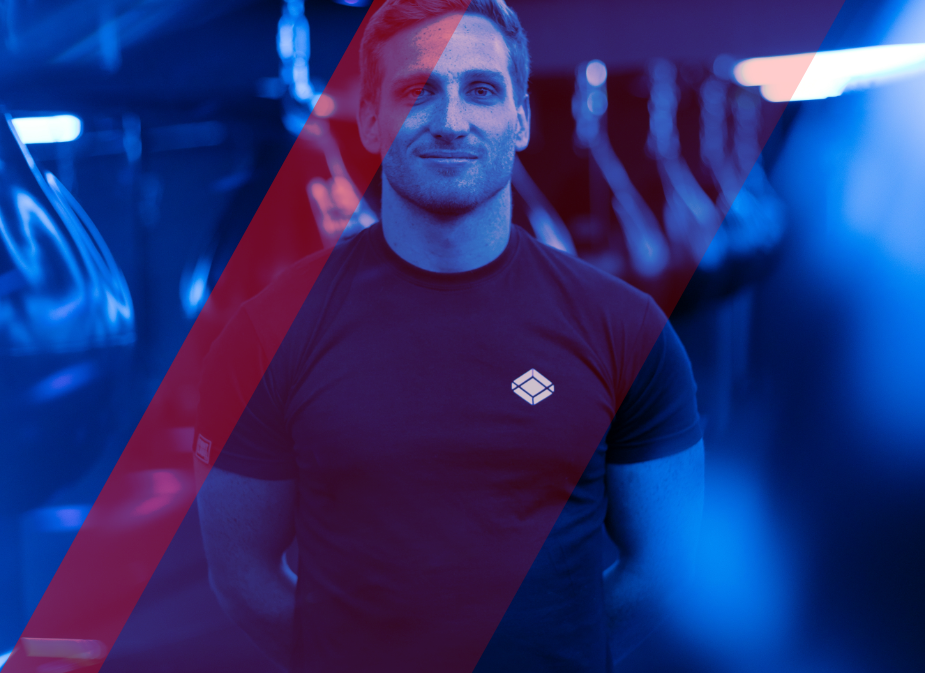
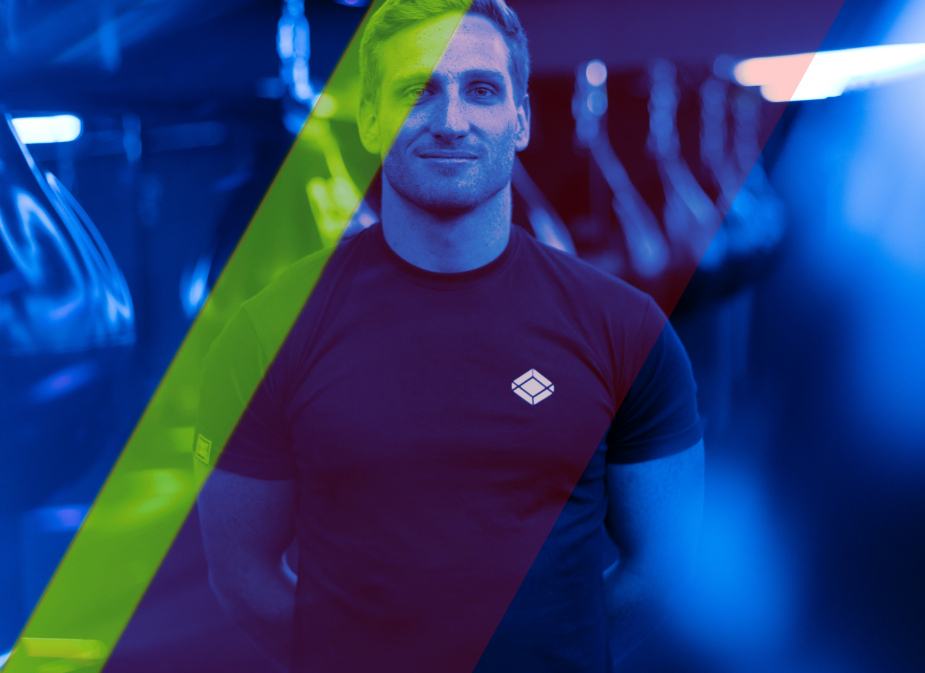
Refactor hero image in slider area

Changed region(s): [[0.0, 0.0, 0.5146, 1.0]]

diff --git a/public/assets/front/css/style.css b/public/assets/front/css/style.css
@@ -2444,7 +2444,7 @@ hr {
   height: 100px;
   position: relative;
   border-style: solid;
-  border-width: 1px;
+  border-width: 3px;
   border-top-color: #ffcc29;
   border-bottom-color: transparent;
   border-left-color: transparent;
@@ -2479,7 +2479,6 @@ hr {
   -webkit-transform: translateY(-50%);
   -ms-transform: translateY(-50%);
   transform: translateY(-50%);
-  padding-top: 6px;
   -webkit-transition: .6s;
   -o-transition: .6s;
   transition: .6s;
@@ -2487,7 +2486,7 @@ hr {
 
 /* line 636, C:/Users/HP/Desktop/July-HTML/292 Health coach/assets/scss/_common.scss */
 .preloader .preloader-img img {
-  max-width: 55px;
+  max-width: 85%;
 }
 
 /* line 639, C:/Users/HP/Desktop/July-HTML/292 Health coach/assets/scss/_common.scss */
@@ -3120,26 +3119,33 @@ hr {
 @media only screen and (min-width: 768px) and (max-width: 991px) {
   /* line 5, C:/Users/HP/Desktop/July-HTML/292 Health coach/assets/scss/_headerMenu.scss */
   .header-area .main-header {
-    padding-top: 16px;
-    padding-bottom: 21px;
+    padding-top: 10px;
+    padding-bottom: 10px;
   }
 }
 
 @media only screen and (min-width: 576px) and (max-width: 767px) {
   /* line 5, C:/Users/HP/Desktop/July-HTML/292 Health coach/assets/scss/_headerMenu.scss */
   .header-area .main-header {
-    padding-top: 16px;
-    padding-bottom: 21px;
+    padding-top: 10px;
+    padding-bottom: 10px;
   }
 }
 
 @media (max-width: 575px) {
   /* line 5, C:/Users/HP/Desktop/July-HTML/292 Health coach/assets/scss/_headerMenu.scss */
   .header-area .main-header {
-    padding-top: 16px;
-    padding-bottom: 21px;
+    padding-top: 10px;
+    padding-bottom: 10px;
   }
 }
+
+@media (max-width: 991px) {
+    /* line 5, C:/Users/HP/Desktop/July-HTML/292 Health coach/assets/scss/_headerMenu.scss */
+    .logo img {
+    width: 60px !important;
+    }
+  }
 
 /* line 36, C:/Users/HP/Desktop/July-HTML/292 Health coach/assets/scss/_headerMenu.scss */
 .header-area .main-header.main-header2 {
@@ -3298,7 +3304,7 @@ hr {
 
 /* line 166, C:/Users/HP/Desktop/July-HTML/292 Health coach/assets/scss/_headerMenu.scss */
 .mobile_menu .slicknav_menu .slicknav_btn {
-  top: -29px;
+  top: -40px;
 }
 
 /* line 169, C:/Users/HP/Desktop/July-HTML/292 Health coach/assets/scss/_headerMenu.scss */
@@ -3316,6 +3322,11 @@ hr {
   background: transparent;
   color: #ffcc29;
 }
+/* line 176, C:/Users/HP/Desktop/July-HTML/292 Health coach/assets/scss/_headerMenu.scss */
+.mobile_menu .slicknav_menu .slicknav_nav li.active a {
+    background: transparent;
+    color: #ffcc29 !important;
+  }
 
 /* line 180, C:/Users/HP/Desktop/July-HTML/292 Health coach/assets/scss/_headerMenu.scss */
 .mobile_menu .slicknav_menu .slicknav_nav a {
@@ -3343,7 +3354,7 @@ hr {
 @media only screen and (min-width: 768px) and (max-width: 991px) {
   /* line 1, C:/Users/HP/Desktop/July-HTML/292 Health coach/assets/scss/_h1-hero.scss */
   .slider-height {
-    height: 650px;
+    height: 700px;
   }
 }
 
@@ -3357,7 +3368,7 @@ hr {
 @media (max-width: 575px) {
   /* line 1, C:/Users/HP/Desktop/July-HTML/292 Health coach/assets/scss/_h1-hero.scss */
   .slider-height {
-    height: 400px;
+    height: 600px;
   }
 }
 
@@ -3390,7 +3401,7 @@ hr {
 
 /* line 31, C:/Users/HP/Desktop/July-HTML/292 Health coach/assets/scss/_h1-hero.scss */
 .slider-area2 {
-  background-image: url(../img/hero/hero2.png);
+  background-image: url(../img/hero/hero2.jpg);
   background-repeat: no-repeat;
   background-size: cover;
 }
@@ -3846,9 +3857,9 @@ hr {
 /* line 22, C:/Users/HP/Desktop/July-HTML/292 Health coach/assets/scss/_pricing.scss */
 .pricing-area .properties__caption P {
   color: #ffcc29;
-  font-size: 30px;
+  font-size: 25px;
   font-weight: 500;
-  text-transform: uppercase;
+  /*text-transform: uppercase;*/
 }
 
 /* line 27, C:/Users/HP/Desktop/July-HTML/292 Health coach/assets/scss/_pricing.scss */

diff --git a/public/assets/front/css/slicknav.css b/public/assets/front/css/slicknav.css
@@ -90,6 +90,7 @@
     }
 
 .slicknav_nav {
+    box-shadow: rgba(220, 167, 58, 0.35) 0px 5px 15px;
   color: #fff;
   margin: 0;
   padding: 0;
@@ -102,9 +103,9 @@
     padding: 0;
     margin: 0 0 0 20px; }
   .slicknav_nav .slicknav_row {
-    
+
     /* padding: 5px 10px; */
-    margin: 2px 5px; 
+    margin: 2px 5px;
   }
     .slicknav_nav .slicknav_row:hover {
       -webkit-border-radius: 6px;

diff --git a/public/assets/front/scss/_h1-hero.scss b/public/assets/front/scss/_h1-hero.scss
@@ -29,7 +29,7 @@
     }
 }
 .slider-area2{
-    background-image: url(../img/hero/hero2.png);
+    background-image: url(../img/hero/hero2.jpg);
     background-repeat:no-repeat ;
     background-size: cover;
 }

diff --git a/resources/views/front/pages/home.blade.php b/resources/views/front/pages/home.blade.php
@@ -25,7 +25,7 @@ $video_section_youtube_video_id = SiteSetting::getSiteSettings('video_section_yo
                         <div class="hero__caption">
                             <span data-animation="fadeInLeft" data-delay="0.1s">Push Your Limits Anytime</span>
                             <h2 class="text-white fa-5x" data-animation="fadeInLeft" data-delay="0.4s"> CORE GYM, Where Fitness Is Limitless.</h2>
-                            <a href="{{route('front.contact')}}" class="border-btn hero-btn" data-animation="fadeInLeft"
+                            <a target="_blank" href="https://oc.debitsuccess.com/DirectEntry/DirectDebitRequest/Form?brandtemplateid=57205586-c7b6-43e7-8f0f-ba3e74d3b1bd#collapse%5Bobject%2520Object%5D" class="border-btn hero-btn" data-animation="fadeInLeft"
                                 data-delay="0.8s">Join Us</a>
                         </div>
                     </div>
@@ -235,8 +235,8 @@ $video_section_youtube_video_id = SiteSetting::getSiteSettings('video_section_yo
                         </div>
                         <div class="properties__caption">
                             <span class="month">Membership Plans</span>
-                            <p class="mb-25">{{ $services_membership_plans_price->value }} <span>(Yearly and Weekly)</span></p>
-                            <a href="{{ route('front.contact') }}" class="border-btn border-btn2">Join Now</a>
+                            <p class="mb-25">{{ $services_membership_plans_price->value }} <br><span>(Yearly and Weekly)</span></p>
+                            <a target="_blank" href="https://oc.debitsuccess.com/DirectEntry/DirectDebitRequest/Form?brandtemplateid=57205586-c7b6-43e7-8f0f-ba3e74d3b1bd#collapse%5Bobject%2520Object%5D" class="border-btn border-btn2">Join Now</a>
                         </div>
                     </div>
                 </div>
@@ -254,8 +254,8 @@ $video_section_youtube_video_id = SiteSetting::getSiteSettings('video_section_yo
                         </div>
                         <div class="properties__caption">
                             <span class="month">Personal Training</span>
-                            <p class="mb-25">{{ $services_personal_training_price->value }} <span>(Per Day Plan)</span></p>
-                            <a href="{{ route('front.contact') }}" class="border-btn border-btn2">Join Now</a>
+                            <p class="mb-25">{{ $services_personal_training_price->value }} <br> <span>(Per Session)</span></p>
+                            <a target="_blank" href="https://oc.debitsuccess.com/DirectEntry/DirectDebitRequest/Form?brandtemplateid=57205586-c7b6-43e7-8f0f-ba3e74d3b1bd#collapse%5Bobject%2520Object%5D" class="border-btn border-btn2">Join Now</a>
                         </div>
                     </div>
                 </div>
@@ -273,8 +273,8 @@ $video_section_youtube_video_id = SiteSetting::getSiteSettings('video_section_yo
                         </div>
                         <div class="properties__caption">
                             <span class="month">Zumba Classes</span>
-                            <p class="mb-25">{{ $services_zumba_classes_price->value }} <span>(Per Class)</span></p>
-                            <a href="{{ route('front.contact') }}" class="border-btn border-btn2">Join Now</a>
+                            <p class="mb-25">{{ $services_zumba_classes_price->value }}<br> <span>(Per Class)</span></p>
+                            <a target="_blank" href="https://oc.debitsuccess.com/DirectEntry/DirectDebitRequest/Form?brandtemplateid=57205586-c7b6-43e7-8f0f-ba3e74d3b1bd#collapse%5Bobject%2520Object%5D" class="border-btn border-btn2">Join Now</a>
                         </div>
                     </div>
                 </div>
@@ -300,7 +300,7 @@ $video_section_youtube_video_id = SiteSetting::getSiteSettings('video_section_yo
                     <h2 class="">About Me</h2>
                     <p>At CORE GYM, we are dedicated to offering a 24/7 fitness experience that fits into your busy lifestyle. Our goal is to help you achieve your personal fitness goals with the best equipment, expert trainers, and an environment that keeps you motivated, no matter your level.</p>
                         <p class="mb-40">In addition to our gym services, we offer a premium range of supplements designed to fuel your workouts and enhance recovery. From muscle gain to weight loss, our scientifically-backed products support your fitness journey, helping you unlock your full potential.</p>
-                        <a href="{{route('front.contact')}}" class="border-btn">Join Us</a>
+                        <a target="_blank" href="https://oc.debitsuccess.com/DirectEntry/DirectDebitRequest/Form?brandtemplateid=57205586-c7b6-43e7-8f0f-ba3e74d3b1bd#collapse%5Bobject%2520Object%5D" class="border-btn">Join Us</a>
                 </div>
             </div>
         </div>

diff --git a/resources/views/front/pages/services.blade.php b/resources/views/front/pages/services.blade.php
@@ -55,8 +55,8 @@ $services_zumba_classes_price = SiteSetting::getSiteSettings('services_zumba_cla
                         </div>
                         <div class="properties__caption">
                             <span class="month">Membership Plans</span>
-                            <p class="mb-25">{{ $services_membership_plans_price->value }} <span>(Yearly and Weekly)</span></p>
-                            <a href="{{ route('front.contact') }}" class="border-btn border-btn2">Join Now</a>
+                            <p class="mb-25">{{ $services_membership_plans_price->value }} <br> <span>(Yearly and Weekly)</span></p>
+                            <a target="_blank" href="https://oc.debitsuccess.com/DirectEntry/DirectDebitRequest/Form?brandtemplateid=57205586-c7b6-43e7-8f0f-ba3e74d3b1bd#collapse%5Bobject%2520Object%5D" class="border-btn border-btn2">Join Now</a>
                         </div>
                     </div>
                 </div>
@@ -74,8 +74,8 @@ $services_zumba_classes_price = SiteSetting::getSiteSettings('services_zumba_cla
                         </div>
                         <div class="properties__caption">
                             <span class="month">Personal Training</span>
-                            <p class="mb-25">{{ $services_personal_training_price->value }} <span>(Per Day Plan)</span></p>
-                            <a href="{{ route('front.contact') }}" class="border-btn border-btn2">Join Now</a>
+                            <p class="mb-25">{{ $services_personal_training_price->value }}<br> <span>(Per Session)</span></p>
+                            <a target="_blank" href="https://oc.debitsuccess.com/DirectEntry/DirectDebitRequest/Form?brandtemplateid=57205586-c7b6-43e7-8f0f-ba3e74d3b1bd#collapse%5Bobject%2520Object%5D" class="border-btn border-btn2">Join Now</a>
                         </div>
                     </div>
                 </div>
@@ -93,8 +93,8 @@ $services_zumba_classes_price = SiteSetting::getSiteSettings('services_zumba_cla
                         </div>
                         <div class="properties__caption">
                             <span class="month">Zumba Classes</span>
-                            <p class="mb-25">{{ $services_zumba_classes_price->value }} <span>(Per Class)</span></p>
-                            <a href="{{ route('front.contact') }}" class="border-btn border-btn2">Join Now</a>
+                            <p class="mb-25">{{ $services_zumba_classes_price->value }}<br> <span>(Per Class)</span></p>
+                            <a target="_blank" href="https://oc.debitsuccess.com/DirectEntry/DirectDebitRequest/Form?brandtemplateid=57205586-c7b6-43e7-8f0f-ba3e74d3b1bd#collapse%5Bobject%2520Object%5D" class="border-btn border-btn2">Join Now</a>
                         </div>
                     </div>
                 </div>

diff --git a/resources/views/front/include/header.blade.php b/resources/views/front/include/header.blade.php
@@ -37,9 +37,9 @@ $loader = SiteSetting::getSiteSettings('loader');
                                 <li class="{{ Route::currentRouteName() == 'front.home' ? 'active' : '' }}"><a href="{{route('front.home')}}">Home</a></li>
                                 <li class="{{ Route::currentRouteName() == 'front.about' ? 'active' : '' }}"><a href="{{ route('front.about') }}">About</a></li>
                                 <li class="{{ Route::currentRouteName() == 'front.services' ? 'active' : '' }}"><a href="{{ route('front.services') }}">Services</a></li>
-                                <li><a href="{{ route('front.contact') }}">Suppliments</a></li>
+                                <li><a href="{{ route('front.contact') }}">Nutrition & Supplements</a></li>
                                 <li class="{{ Route::currentRouteName() == 'front.blogs' ? 'active' : '' }}"><a href="{{ route('front.blogs') }}">Blog</a></li>
-                                <!-- <li class="{{ Route::currentRouteName() == 'front.contact' ? 'active' : '' }}"><a href="{{ route('front.contact') }}">Contact</a></li> -->
+                                <li class="d-block d-lg-none {{ Route::currentRouteName() == 'front.contact' ? 'active' : '' }}"><a href="{{ route('front.contact') }}">Contact</a></li>
                             </ul>
                         </nav>
                     </div>

diff --git a/resources/views/front/pages/about.blade.php b/resources/views/front/pages/about.blade.php
@@ -84,7 +84,7 @@ $video_section_youtube_video_id = SiteSetting::getSiteSettings('video_section_yo
                     <h2 class="">About Me</h2>
                     <p>At CORE GYM, we are dedicated to offering a 24/7 fitness experience that fits into your busy lifestyle. Our goal is to help you achieve your personal fitness goals with the best equipment, expert trainers, and an environment that keeps you motivated, no matter your level.</p>
                     <p class="mb-40">In addition to our gym services, we offer a premium range of supplements designed to fuel your workouts and enhance recovery. From muscle gain to weight loss, our scientifically-backed products support your fitness journey, helping you unlock your full potential.</p>
-                    <a href="{{route('front.contact')}}" class="border-btn">Join Us</a>
+                    <a target="_blank" href="https://oc.debitsuccess.com/DirectEntry/DirectDebitRequest/Form?brandtemplateid=57205586-c7b6-43e7-8f0f-ba3e74d3b1bd#collapse%5Bobject%2520Object%5D" class="border-btn">Join Us</a>
                 </div>
             </div>
         </div>

diff --git a/resources/views/front/layouts/head.blade.php b/resources/views/front/layouts/head.blade.php
@@ -1,7 +1,7 @@
  <!-- CSS here -->
  <link rel="stylesheet" href="{{ asset('assets/front/css/bootstrap.min.css') }}">
  <link rel="stylesheet" href="{{ asset('assets/front/css/owl.carousel.min.css') }}">
- <link rel="stylesheet" href="{{ asset('assets/front/css/slicknav.css') }}">
+ <link rel="stylesheet" href="{{ asset('assets/front/css/slicknav.css?fvdfv') }}">
  <link rel="stylesheet" href="{{ asset('assets/front/css/flaticon.css') }}">
  <link rel="stylesheet" href="{{ asset('assets/front/css/gijgo.css') }}">
  <link rel="stylesheet" href="{{ asset('assets/front/css/animate.min.css') }}">

diff --git a/resources/views/front/pages/contact.blade.php b/resources/views/front/pages/contact.blade.php
@@ -6,7 +6,7 @@
 <style>
     .map-responsive iframe {
         width: 100%;
-        height: 100%;
+        height: 350px;
     }
 </style>
 @stop
@@ -34,7 +34,7 @@ $ContactUsSetting = ContactUsSetting::get_contact_us_details();
 <section class="contact-section">
     <div class="container">
         @if ($ContactUsSetting && $ContactUsSetting['map_iframe'] != null)
-        <div class="d-none d-sm-block mb-5 pb-4 map-responsive">
+        <div class="d-block mb-5 pb-4 map-responsive">
             {!! $ContactUsSetting['map_iframe'] !!}
         </div>
         @endif

diff --git a/resources/views/admin/layouts/head.blade.php b/resources/views/admin/layouts/head.blade.php
@@ -94,7 +94,6 @@
         -webkit-transform: translateY(-50%);
         -ms-transform: translateY(-50%);
         transform: translateY(-50%);
-        padding-top: 6px;
         -webkit-transition: .6s;
         -o-transition: .6s;
         transition: .6s;

diff --git a/resources/views/user/layouts/head.blade.php b/resources/views/user/layouts/head.blade.php
@@ -93,7 +93,6 @@
         -webkit-transform: translateY(-50%);
         -ms-transform: translateY(-50%);
         transform: translateY(-50%);
-        padding-top: 6px;
         -webkit-transition: .6s;
         -o-transition: .6s;
         transition: .6s;
